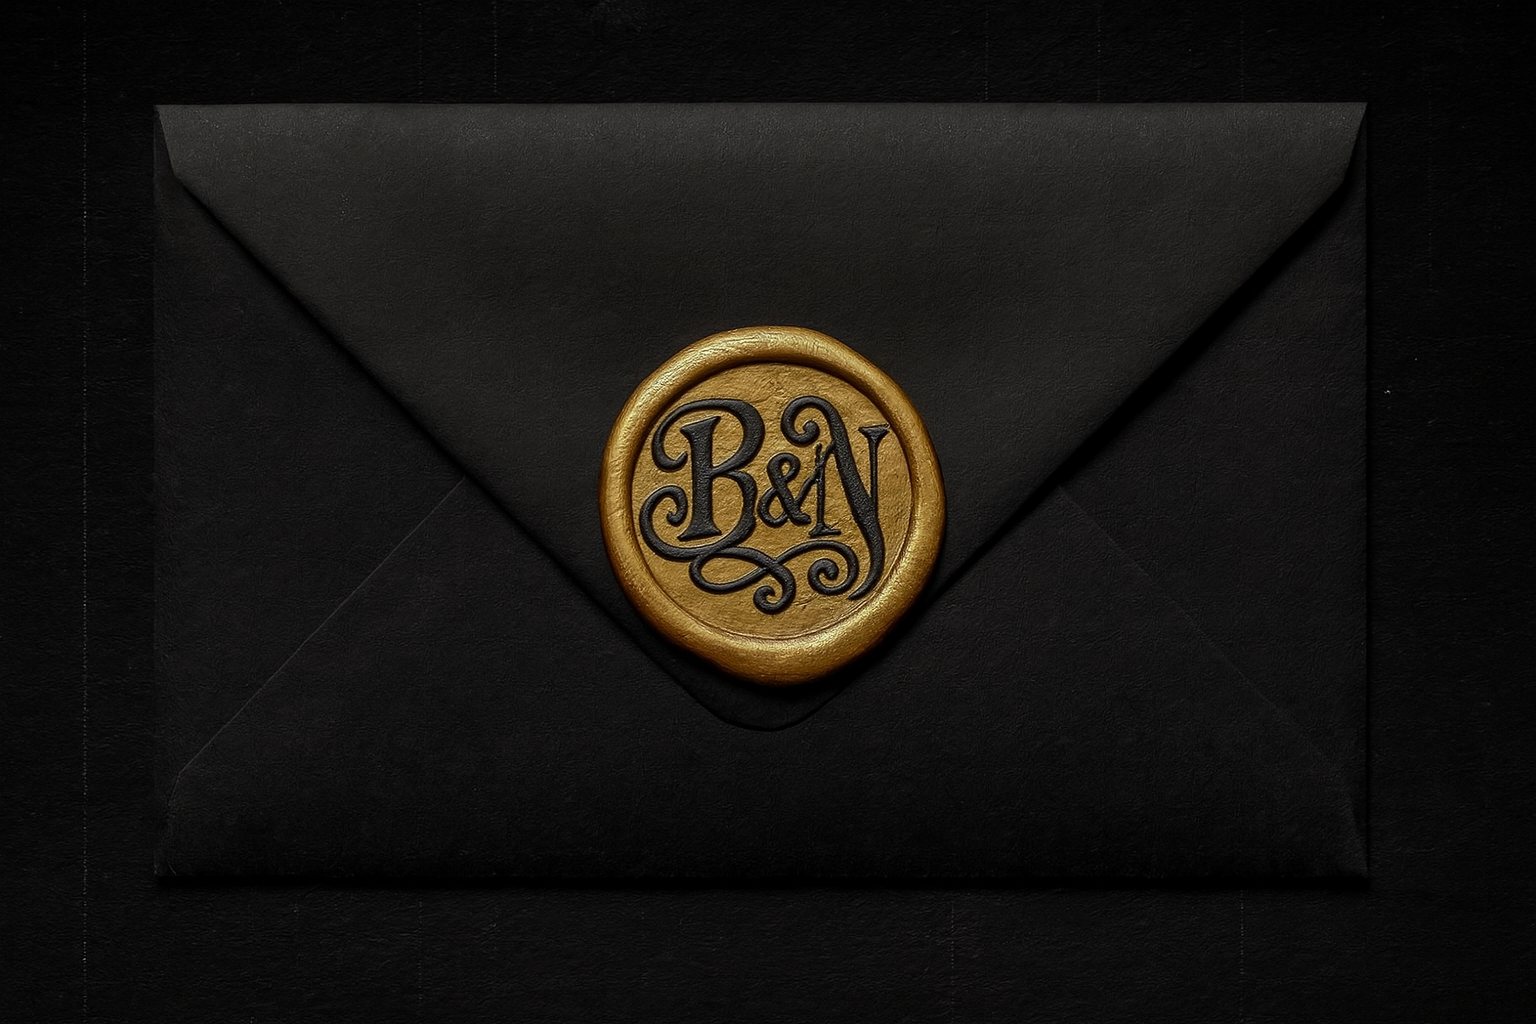
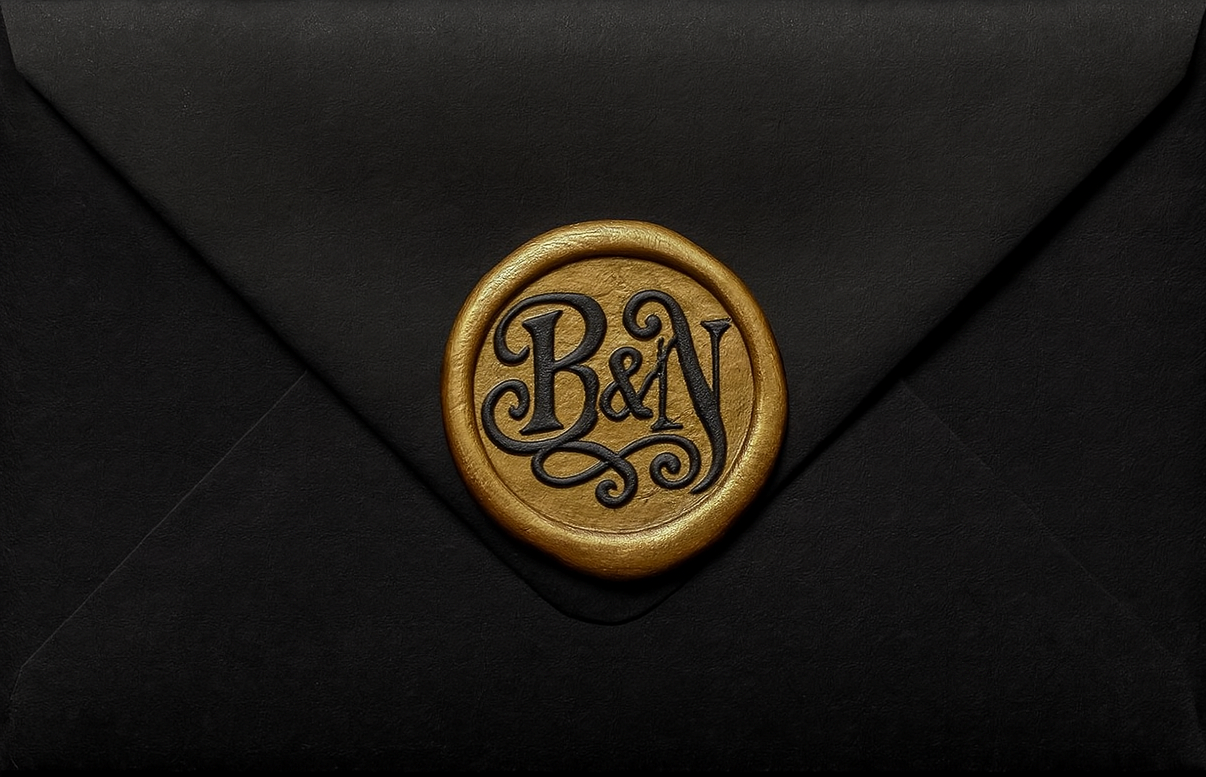
update card

diff --git a/save-the-date-invite/src/styles/style.css b/save-the-date-invite/src/styles/style.css
@@ -6,7 +6,7 @@
 
 body {
     font-family: 'Cormorant Garamond', serif;
-    background: linear-gradient(135deg, #1a1612 0%, #2d2520 50%, #1f1b17 100%);
+    background: #ffffff;
     background-attachment: fixed;
     margin: 0;
     padding: 0;
@@ -25,9 +25,7 @@ body::before {
     left: 0;
     width: 100%;
     height: 100%;
-    background-image: 
-        repeating-linear-gradient(90deg, transparent, transparent 2px, rgba(255, 255, 255, 0.03) 2px, rgba(255, 255, 255, 0.03) 4px),
-        repeating-linear-gradient(0deg, transparent, transparent 2px, rgba(255, 255, 255, 0.02) 2px, rgba(255, 255, 255, 0.02) 4px);
+    background-image: none;
     pointer-events: none;
     z-index: 1;
 }
